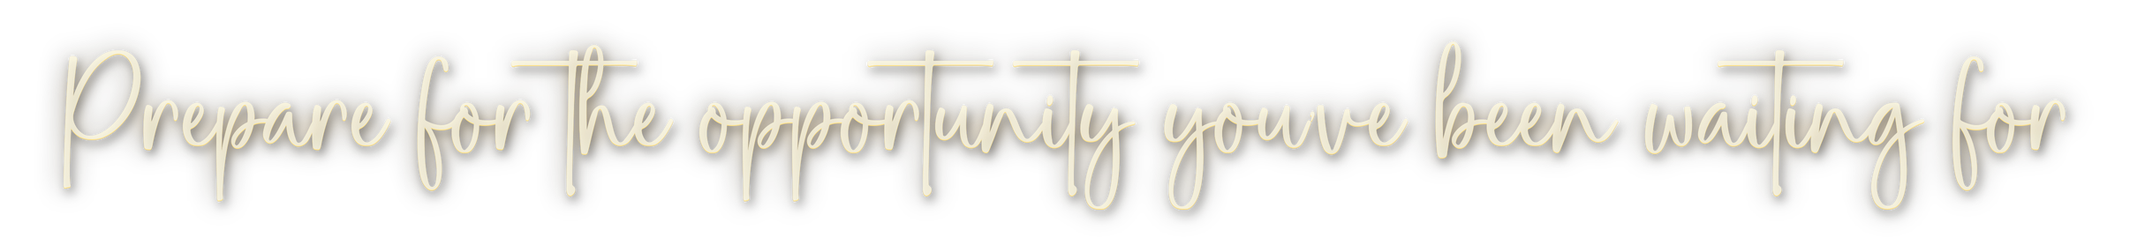
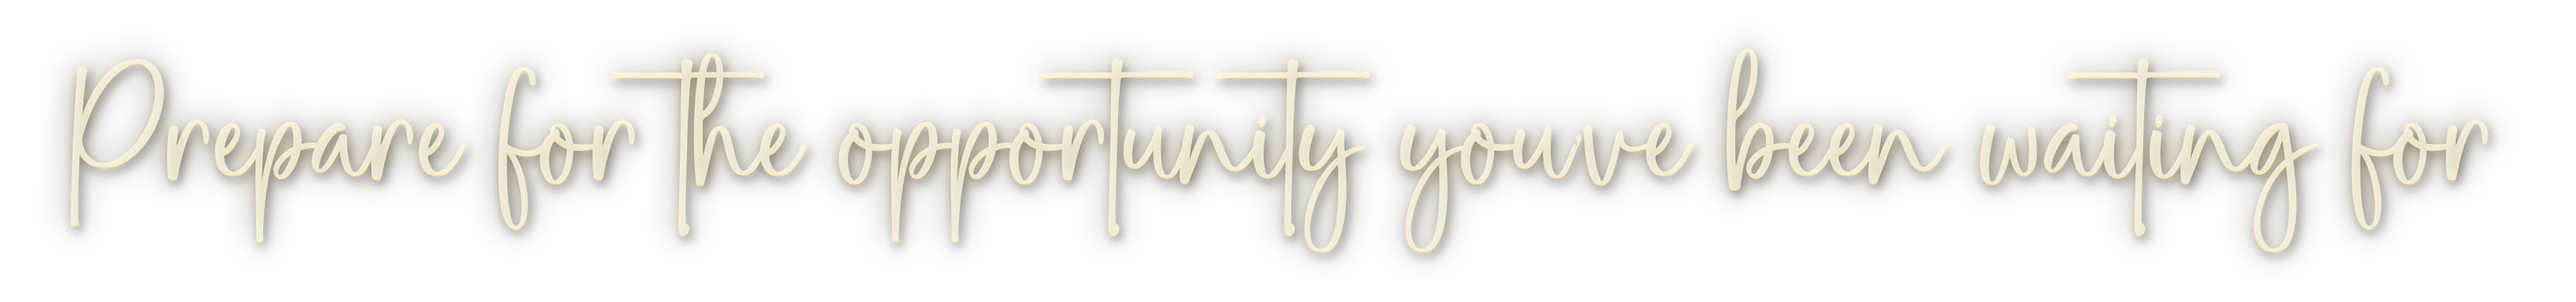
style: enlarge subtagline font and badge height in README

diff --git a/scripts/generate_subtagline.py b/scripts/generate_subtagline.py
@@ -5,7 +5,7 @@ def create_subtagline():
     print("Generating stylish subtagline badge (Prepare for the opportunity you’ve been waiting for)...")
     SCALE = 4
     
-    font = ImageFont.truetype('assets/fonts/hatton/Hatton1.otf', int(38 * SCALE))
+    font = ImageFont.truetype('assets/fonts/hatton/Hatton1.otf', int(46 * SCALE))
     
     part1 = "Prepare for the opportunity you"
     apo = "'"
@@ -20,8 +20,8 @@ def create_subtagline():
     bb = font.getbbox("Prepare for the opportunity you've been waiting for")
     txt_h = bb[3] - bb[1]
     
-    pad_x = int(36 * SCALE)
-    pad_y = int(24 * SCALE)
+    pad_x = int(40 * SCALE)
+    pad_y = int(28 * SCALE)
     
     W = total_w + pad_x * 2
     H = txt_h + pad_y * 2
@@ -35,7 +35,7 @@ def create_subtagline():
         # part 1
         draw_target.text((base_x + offset_x, base_y + offset_y), part1, font=font, fill=fill_color)
         # apostrophe lifted slightly to natural shoulder height in Hatton font
-        draw_target.text((base_x + offset_x + w1 + int(1 * SCALE), base_y + offset_y - int(12 * SCALE)), apo, font=font, fill=fill_color)
+        draw_target.text((base_x + offset_x + w1 + int(1 * SCALE), base_y + offset_y - int(14 * SCALE)), apo, font=font, fill=fill_color)
         # part 2
         draw_target.text((base_x + offset_x + w1 + w_apo + int(2 * SCALE), base_y + offset_y), part2, font=font, fill=fill_color)
     
@@ -43,14 +43,14 @@ def create_subtagline():
     shd = Image.new('RGBA', (W, H), (0, 0, 0, 0))
     sdraw = ImageDraw.Draw(shd)
     draw_text_parts(sdraw, int(1.5 * SCALE), int(2.5 * SCALE), (0, 0, 0, 115))
-    shd = shd.filter(ImageFilter.GaussianBlur(int(2.8 * SCALE)))
+    shd = shd.filter(ImageFilter.GaussianBlur(int(3.2 * SCALE)))
     img.alpha_composite(shd)
     
     # 2. Warm Golden Halo / Ambient Bloom
     glow = Image.new('RGBA', (W, H), (0, 0, 0, 0))
     gdraw = ImageDraw.Draw(glow)
     draw_text_parts(gdraw, 0, 0, (245, 175, 45, 145))
-    glow = glow.filter(ImageFilter.GaussianBlur(int(7 * SCALE)))
+    glow = glow.filter(ImageFilter.GaussianBlur(int(8 * SCALE)))
     img.alpha_composite(glow)
     
     # 3. Rich Champagne Gold Text with Specular Edge

diff --git a/README.md b/README.md
@@ -7,7 +7,7 @@
   <p align="center">
     <img src="assets/tagline.png" alt="Better Preparation. Stronger Presentation." height="68" />
     <br/>
-    <img src="assets/subtagline.png" alt="Prepare for the opportunity you've been waiting for" height="42" />
+    <img src="assets/subtagline.png" alt="Prepare for the opportunity you've been waiting for" height="52" />
     <br/><br/>
     <em>A comprehensive, AI-powered interview preparation and career-readiness platform with multi-persona panels, real-time voice-to-voice interaction, and deep role/company tailoring.</em>
   </p>
